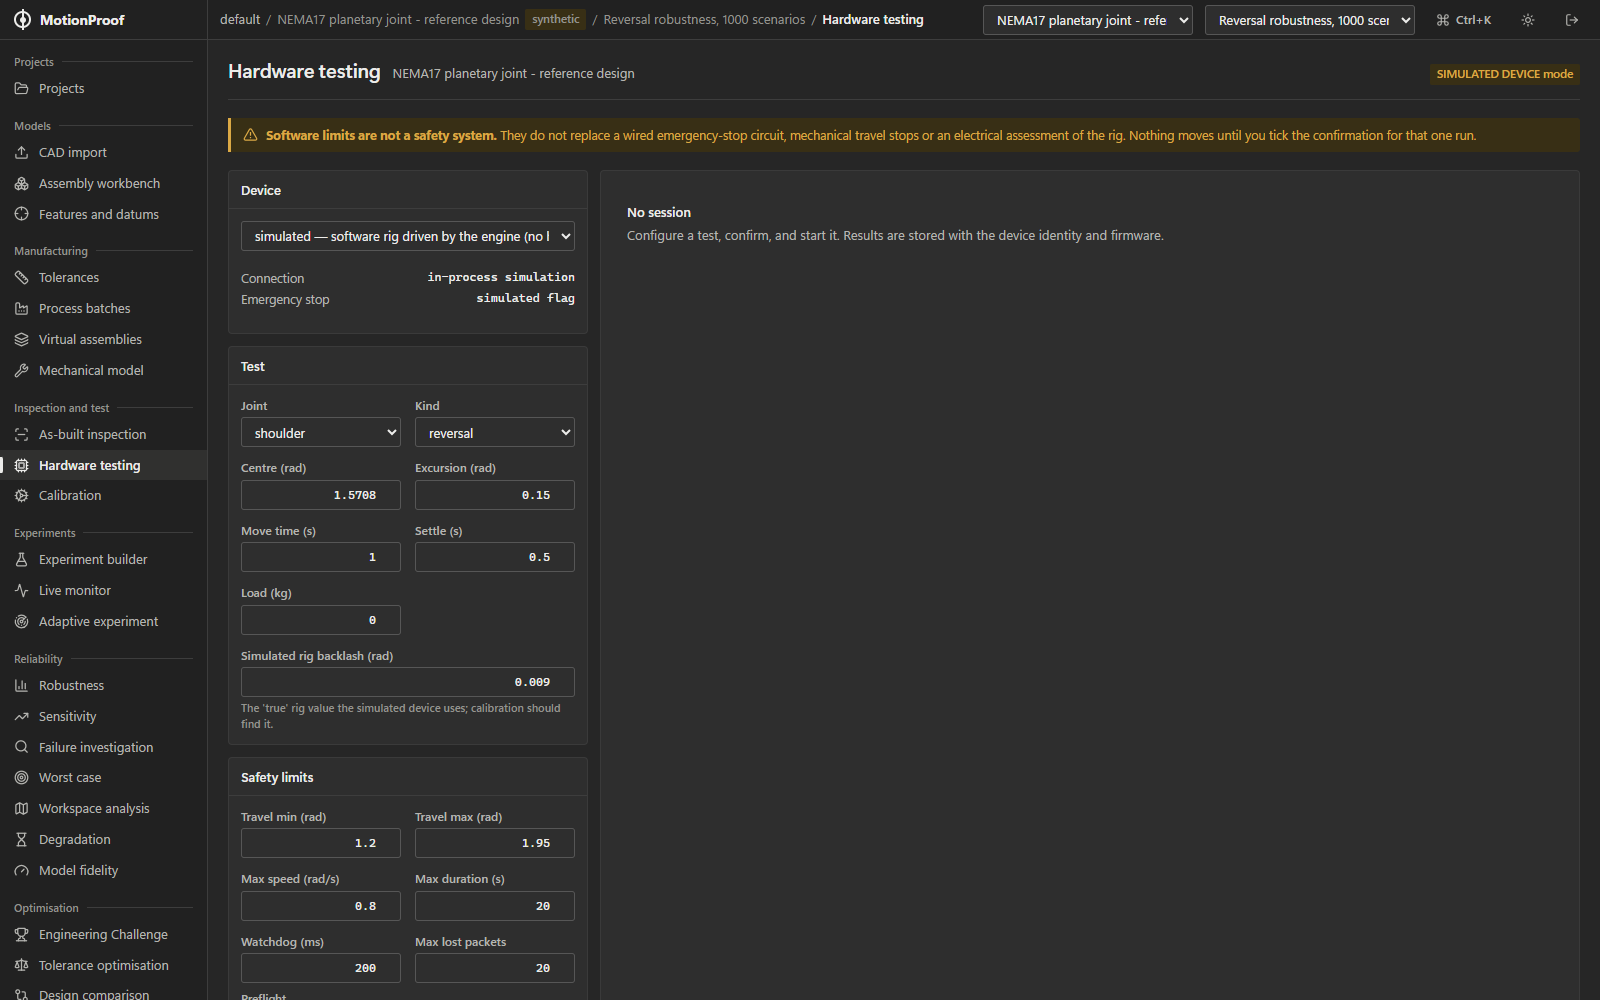
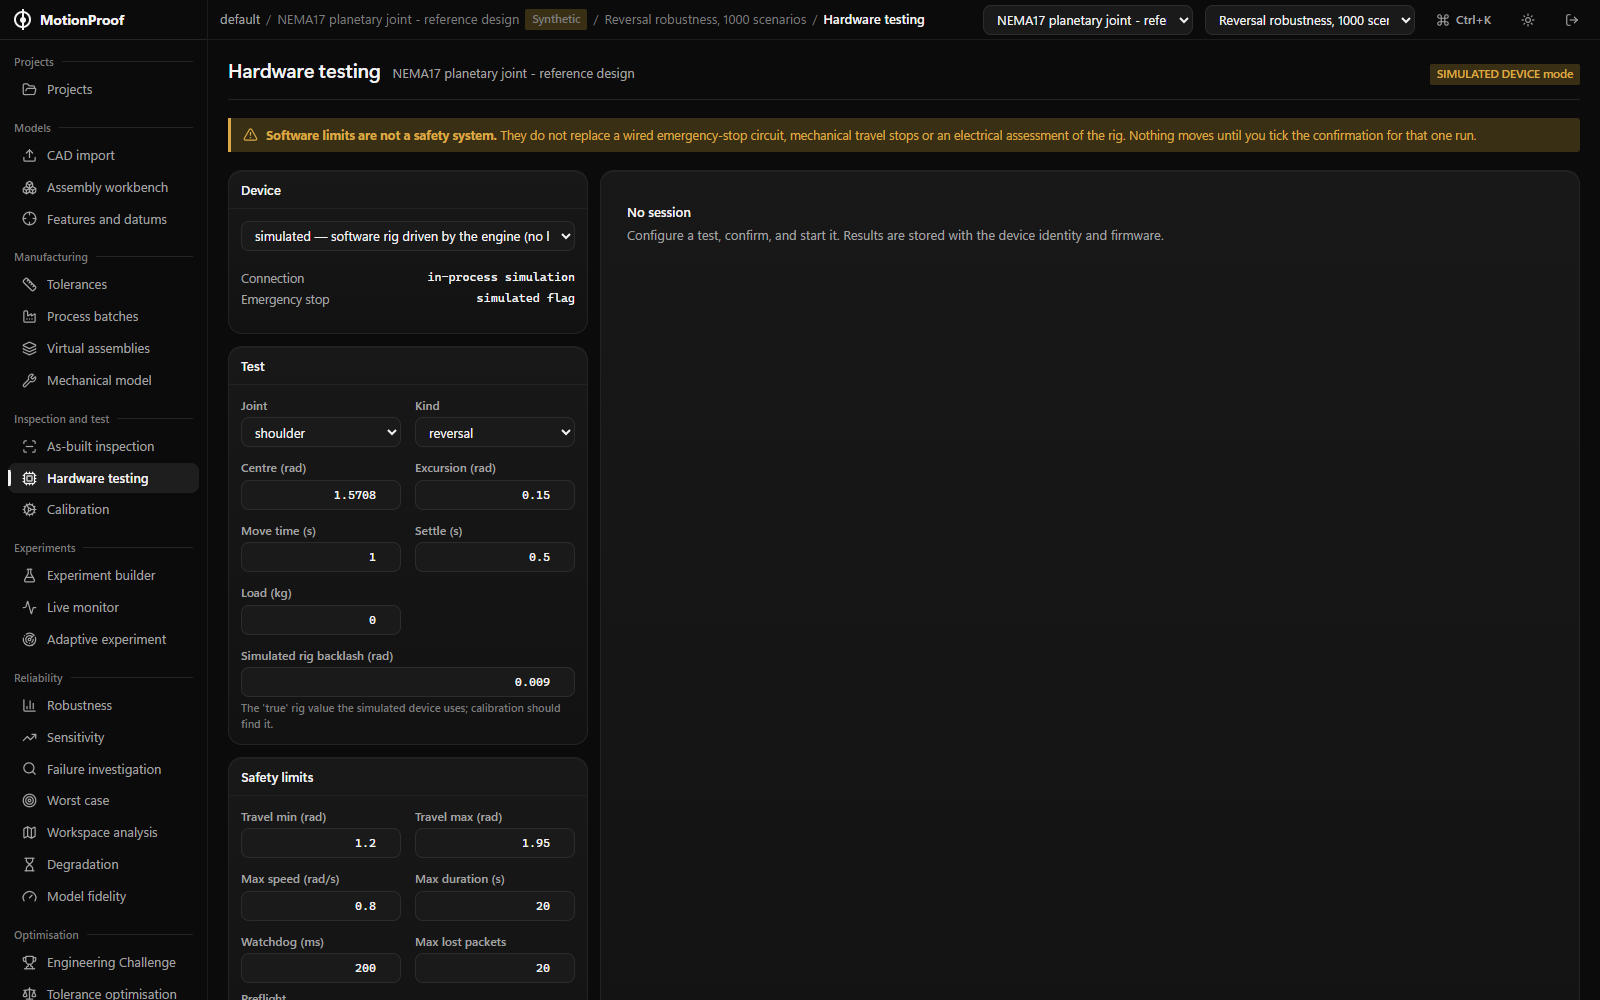
Dark theme: near-black neutral ground, rounded cards with a soft sheen, grey chart data; homepage screenshots retaken

diff --git a/frontend/src/styles.css b/frontend/src/styles.css
@@ -394,16 +394,24 @@ table.grid tr.selected td:first-child { box-shadow: inset 3px 0 0 var(--accent);
 
 /* ---- dark mode: three distinct levels (ground, chrome, surface) and readable rules ---- */
 [data-theme="dark"] {
-  /* neutral graphite, the greys of CAD and 3D tools: no blue cast, clear steps between ground,
-     panels and inputs, and not near-black */
-  --bg: #262626; --surface: #2e2e2e; --surface-2: #383838; --border: #3d3d3d; --border-strong: #565656;
-  --text: #ececea; --muted: #b5b5b1; --faint: #94948f;
-  /* ink, not a brand colour: primary actions are off-white on graphite, like ink on a drawing */
-  --accent: #ececea; --accent-weak: #424242; --accent-text: #1e1e1e; --accent-hover: #ffffff;
-  --data: #86b4d6; --data-2: #d9b064; --viewport: #2a2a2a; --grid: #3a3a3a;
+  /* near-black neutral: no blue cast; cards a step lighter with a soft sheen, quiet borders */
+  --bg: #0b0b0b; --surface: #151515; --surface-2: #1f1f1f; --border: #242424; --border-strong: #363636;
+  --text: #f2f2f2; --muted: #a3a3a3; --faint: #7c7c7c;
+  /* ink, not a brand colour: primary actions are off-white, like ink on a drawing */
+  --accent: #f2f2f2; --accent-weak: #2a2a2a; --accent-text: #0b0b0b; --accent-hover: #ffffff;
+  --data: #9aa1ad; --data-2: #d5b46e; --viewport: #121212; --grid: #262626;
+  --radius: 10px;
 }
-[data-theme="dark"] .nav, [data-theme="dark"] .topbar { background: #212121; }
-[data-theme="dark"] .panel { border-color: #3a3a3a; box-shadow: none; }
+[data-theme="dark"] .nav, [data-theme="dark"] .topbar { background: #0b0b0b; }
+[data-theme="dark"] .nav { border-right-color: #1c1c1c; }
+[data-theme="dark"] .topbar { border-bottom-color: #1c1c1c; }
+[data-theme="dark"] .panel { border-radius: 14px; border-color: #232323; box-shadow: inset 0 1px 0 rgba(255, 255, 255, 0.04);
+  background: linear-gradient(180deg, #181818 0%, #121212 100%); }
+[data-theme="dark"] .panel-head { border-bottom-color: #222; }
+[data-theme="dark"] .btn, [data-theme="dark"] .input, [data-theme="dark"] select, [data-theme="dark"] textarea { border-radius: 8px; }
+[data-theme="dark"] .input, [data-theme="dark"] select, [data-theme="dark"] textarea { background: #1a1a1a; border-color: #2c2c2c; }
+[data-theme="dark"] .nav-item { border-radius: 8px; margin: 1px 8px; width: calc(100% - 16px); }
+[data-theme="dark"] .nav-item.active { background: #1e1e1e; }
 [data-theme="dark"] table.grid th { border-bottom-color: var(--border-strong); }
 [data-theme="dark"] .page { gap: 18px; }
 @media (prefers-reduced-motion: reduce) { .pick-list button::before, .pick-go { transition: none; } }

diff --git a/frontend/src/features/home.css b/frontend/src/features/home.css
@@ -1,7 +1,7 @@
 /* Public homepage. Fixed dark palette: the app's dark slate neutrals, ink-white actions and steel markers, so home,
    sign-in and app read as one product. */
 .hm {
-  --h-bg: #1f1f1f; --h-bg2: #262626; --h-ink: #ececea; --h-mut: #b5b5b1; --h-line: #3a3a3a;
+  --h-bg: #0b0b0b; --h-bg2: #121212; --h-ink: #f2f2f2; --h-mut: #a3a3a3; --h-line: #242424;
   /* ink buttons; small markers use the steel data colour */
   --h-acc: #8fb3c6; --accent: #ececea; --accent-text: #1f1f1f; --mp-accent-hover: #ffffff;
   background: var(--h-bg); color: var(--h-ink); min-height: 100%; overflow-x: clip;
